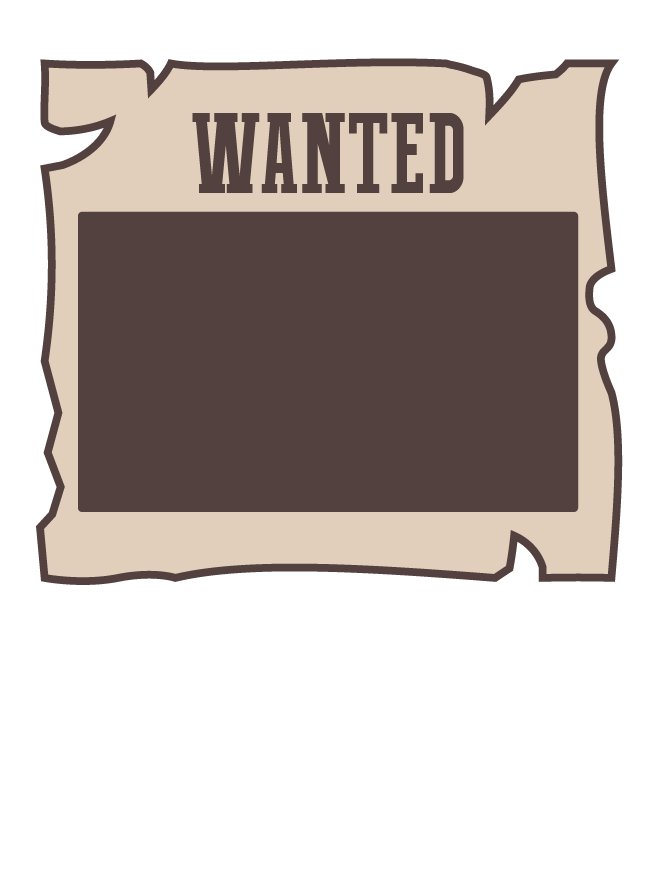
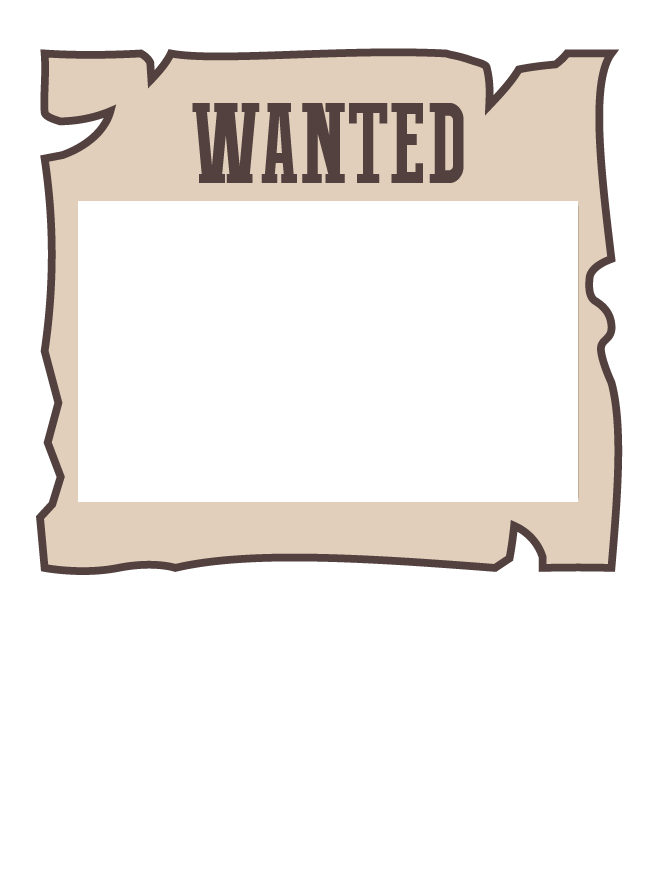
Cartell
-modificacions compartir per a probes

diff --git a/src/components/hackeps/Sponsors/LogoSponsors.css b/src/components/hackeps/Sponsors/LogoSponsors.css
@@ -1,43 +1,39 @@
 .wanted-poster {
   position: relative;
-  width: 300px;
-  height: 400px;
-  margin: 15px;
+  width: 200px; /* ajustable */
+  height: 250px; /* ajustable */
 }
 
 .wanted-frame {
   width: 100%;
   height: 100%;
   object-fit: contain;
-  position: absolute;
-  top: 0;
-  left: 0;
-  z-index: 1;
 }
 
-.content {
+.poster-content {
   position: absolute;
-  top: 90px; /* ajusta segons la zona fosca */
-  left: 30px;
-  width: 240px;
-  height: 180px;
+  /* posició dins la zona fosca aproximada, pot ajustar-se */
+  top: 35%;
+  left: 50%;
+  transform: translate(-50%, -50%);
+  width: 140px;  /* ajustable segons el teu marc */
+  height: 100px; /* ajustable segons el teu marc */
   display: flex;
   flex-direction: column;
   align-items: center;
   justify-content: center;
-  z-index: 2;
 }
 
 .company-logo {
   max-width: 100%;
-  max-height: 100%;
+  max-height: 80%;
   object-fit: contain;
 }
 
 .company-name {
-  margin-top: 10px;
+  margin-top: 4px;
   font-weight: bold;
-  color: #333;
-  font-size: 1rem;
+  color: #4b2e16;
   text-align: center;
+  font-size: 0.75rem;
 }

diff --git a/src/components/hackeps/Sponsors/LogoSponsors.js b/src/components/hackeps/Sponsors/LogoSponsors.js
@@ -5,19 +5,23 @@ import wantedFrame1 from "src/assets/Cartell A.png";
 
 const LogoSponsors = ({ image, name }) => {
   return (
-    <div className="wanted-poster">
-      <img
-        src={wantedFrame1}
-        alt="Wanted frame"
-        className="wanted-frame"
-      />
-      <div className="content">
-        <img src={image} alt={name} className="company-logo" />
-        <p className="company-name">{name}</p>
+    <div className="relative w-52 h-48 bg-background-cartellA bg-cover items-center justify-center content-center">   
+      {/* Contingut centrat dins el marc marró */}
+      <div
+        className="
+          w-9/12 h-5/12 flex flex-col items-center justify-center p-4 self-center"
+      >
+        <img
+          src={image}
+          alt={name}
+          className="w-full h-auto max-h-[70%] object-contain"
+        />
       </div>
+        {/* <p className="text-xs font-bold text-[#4b2e16] text-center mt-2">
+          {name}
+        </p> */}
     </div>
   );
 };
 
 export default LogoSponsors;
-

diff --git a/src/components/hackeps/Home/Calendar.js b/src/components/hackeps/Home/Calendar.js
@@ -43,6 +43,7 @@ const CalendarDates = (props) => {
             </p>
           </Col>
           <Col>
+            {/*}
             <div className="calendar-container">
               <Calendar
                 value={[startDate, endDate]}
@@ -50,6 +51,7 @@ const CalendarDates = (props) => {
                 minDetail={"month"}
               />
             </div>
+          */}
           </Col>
         </Row>
       </Container>

diff --git a/tailwind.config.js b/tailwind.config.js
@@ -43,6 +43,7 @@ module.exports = {
       "background-hero": "url('/src/imgs/hackers_group.jpg')",
       "background-patron": "url('/src/imgs/patron_imagen.png')",
       "background-none": "url()",
+      "background-cartellA": "url('/src/assets/Cartell A.png')"
     },
   },
   plugins: [],
